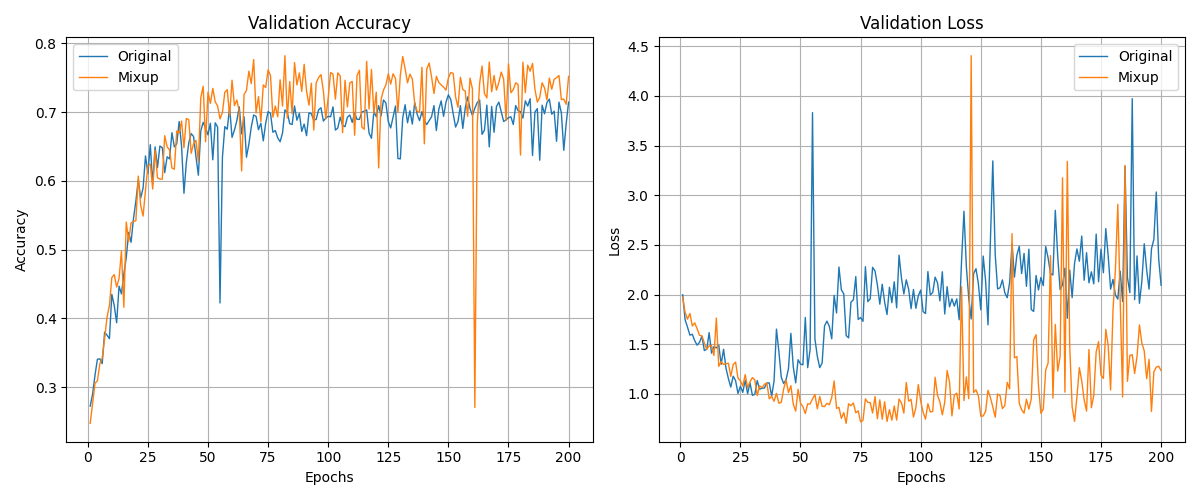
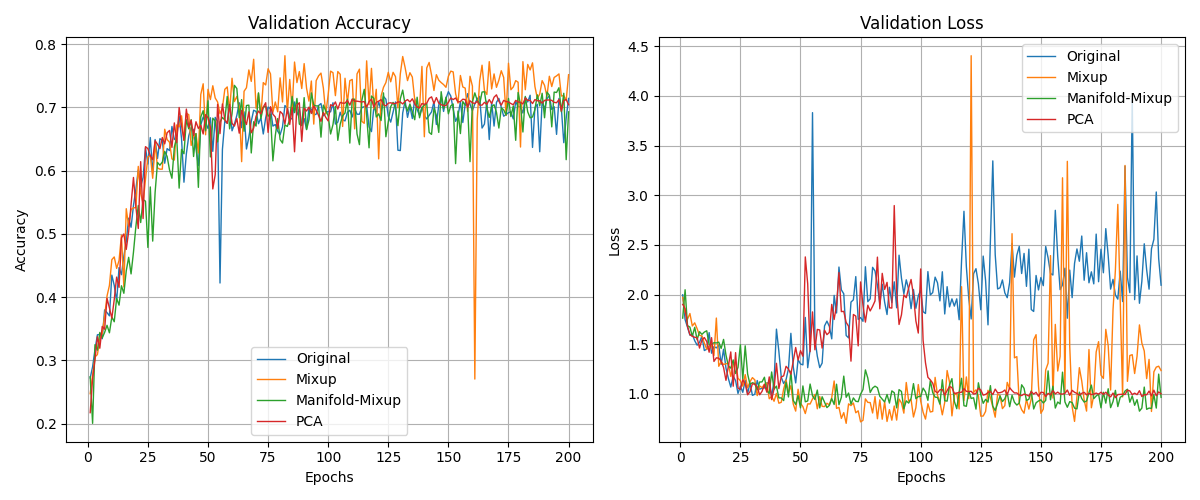
experimtns on STL-10 dataset

diff --git a/tsne.py b/tsne.py
@@ -9,49 +9,49 @@ from tqdm import tqdm
 
 features_list = []
 labels_list = []
-data_type = "cifar10"
+data_type = "stl10"
 training = True
 device = torch.device('cuda' if torch.cuda.is_available() else 'cpu')
 model = ResNet18().to(device)
 N = [1000, 5000, 10000]
+augmentations = ["Original", "Mixup", "Manifold-Mixup-Origin", "PCA"]
 
+for augment in augmentations:
+    if data_type == "cifar10":
+        # checkpoint_path = f"./logs/resnet18/Original/cifar10_200_{N_train}.pth"
+        checkpoint_path = f"./logs/resnet18/{augment}/cifar10_200.pth"
+        batch_size      = 128
+        transform       = transforms.Compose([transforms.ToTensor(), transforms.Normalize(mean=[0.485, 0.456, 0.406], std=[0.229, 0.224, 0.225])])
+        train_dataset   = torchvision.datasets.CIFAR10(root='./data', train=False, transform=transform, download=True)
+        dataloader      = DataLoader(dataset=train_dataset, batch_size=batch_size, shuffle=False)
+    elif data_type == "stl10":
+        checkpoint_path = f"./logs/resnet18/{augment}/stl10_200.pth"
+        batch_size      = 64
+        transform       = transforms.Compose([transforms.ToTensor(), transforms.Normalize(mean=[0.485, 0.456, 0.406], std=[0.229, 0.224, 0.225])])
+        train_dataset   = torchvision.datasets.STL10(root='./data', split='train', transform=transform, download=True)
+        dataloader      = DataLoader(dataset=train_dataset, batch_size=batch_size, shuffle=False)
 
-if data_type == "cifar10":
-    # checkpoint_path = f"./logs/resnet18/Original/cifar10_200_{N_train}.pth"
-    checkpoint_path = f"./logs/resnet18/Manifold-Mixup/cifar10_200.pth"
-    batch_size      = 128
-    transform       = transforms.Compose([transforms.ToTensor(), transforms.Normalize(mean=[0.485, 0.456, 0.406], std=[0.229, 0.224, 0.225])])
-    train_dataset   = torchvision.datasets.CIFAR10(root='./data', train=False, transform=transform, download=True)
-    dataloader      = DataLoader(dataset=train_dataset, batch_size=batch_size, shuffle=False)
-elif data_type == "stl10":
-    checkpoint_path = "./logs/resnet18/Original/stl10_150.pth"
-    batch_size      = 64
-    transform       = transforms.Compose([transforms.Grayscale(num_output_channels=1), transforms.ToTensor()])
-    train_dataset   = torchvision.datasets.STL10(root='./data', split='test', transform=transform, download=True)
-    dataloader      = DataLoader(dataset=train_dataset, batch_size=batch_size, shuffle=False)
+    if training:
+        model.load_state_dict(torch.load(checkpoint_path, map_location=device, weights_only=True))
 
-if training:
-    model.load_state_dict(torch.load(checkpoint_path, map_location=device, weights_only=True))
+    model.eval()
+    with torch.no_grad():
+        for images, labels in tqdm(dataloader, leave=False):
+            images = images.to(device)
+            features = model.extract_features(images)
+            features_list.append(features.cpu())
+            labels_list.append(labels)
+    X = torch.cat(features_list, dim=0).numpy()
+    y = torch.cat(labels_list, dim=0).numpy()
 
-model.eval()
-with torch.no_grad():
-    for images, labels in tqdm(dataloader, leave=False):
-        images = images.to(device)
-        features = model.extract_features(images)
-        features_list.append(features.cpu())
-        labels_list.append(labels)
-X = torch.cat(features_list, dim=0).numpy()
-y = torch.cat(labels_list, dim=0).numpy()
+    tsne = TSNE(n_components=2, random_state=42, perplexity=30)
+    X_2d = tsne.fit_transform(X)
 
-tsne = TSNE(n_components=2, random_state=42, perplexity=30)
-X_2d = tsne.fit_transform(X)
-
-plt.figure(figsize=(8, 6))
-scatter = plt.scatter(X_2d[:, 0], X_2d[:, 1], c=y, cmap='tab10', s=10, alpha=0.7)
-plt.colorbar(scatter, label="Class label")
-plt.title("t-SNE of ResNet Feature Representations")
-plt.xlabel("Dim 1")
-plt.ylabel("Dim 2")
-plt.tight_layout()
-plt.savefig(f"./tsne/{data_type}_ManifoldMixup")
-# plt.savefig(f"./tsne/{data_type}_{N_train}")
+    plt.figure(figsize=(8, 6))
+    scatter = plt.scatter(X_2d[:, 0], X_2d[:, 1], c=y, cmap='tab10', s=10, alpha=0.7)
+    plt.colorbar(scatter, label="Class label")
+    plt.title("t-SNE of ResNet Feature Representations")
+    plt.xlabel("Dim 1")
+    plt.ylabel("Dim 2")
+    plt.tight_layout()
+    plt.savefig(f"./tsne/{data_type}_{augment}")

diff --git a/evaluate_error.py b/evaluate_error.py
@@ -21,7 +21,7 @@ from sklearn.decomposition import PCA
 
 def main():
     model_type = 'resnet18'
-    data_type = 'cifar10'
+    data_type = 'stl10'
     tuning = False
     # augmentations = ["Original", "Flipping", "Cropping", "Rotation", "Translation", "Noisy", "Blurring", "Random-Erasing"]
     if tuning:
@@ -30,7 +30,7 @@ def main():
         N = [1000, 5000, 10000]
     else:
         epochs = 200
-        augmentations = ["Original", "Manifold-Mixup", "Manifold-Mixup-Origin", "PCA"]
+        augmentations = ["Original", "Mixup", "Manifold-Mixup-Origin", "PCA"]
         N = [1000, 5000, 10000]
     
     device = torch.device("cuda" if torch.cuda.is_available() else "cpu")

diff --git a/plot_result.py b/plot_result.py
@@ -51,5 +51,5 @@ def plot_comparison_graph(model_type, augmentations, data_type):
 if __name__ == "__main__":
     model_type = 'resnet18'
     data_type = "stl10"
-    augmentations = ["Original", "Mixup"]
+    augmentations = ["Original", "Mixup", "Manifold-Mixup-Origin", "PCA"]
     plot_comparison_graph(model_type, augmentations, data_type)
